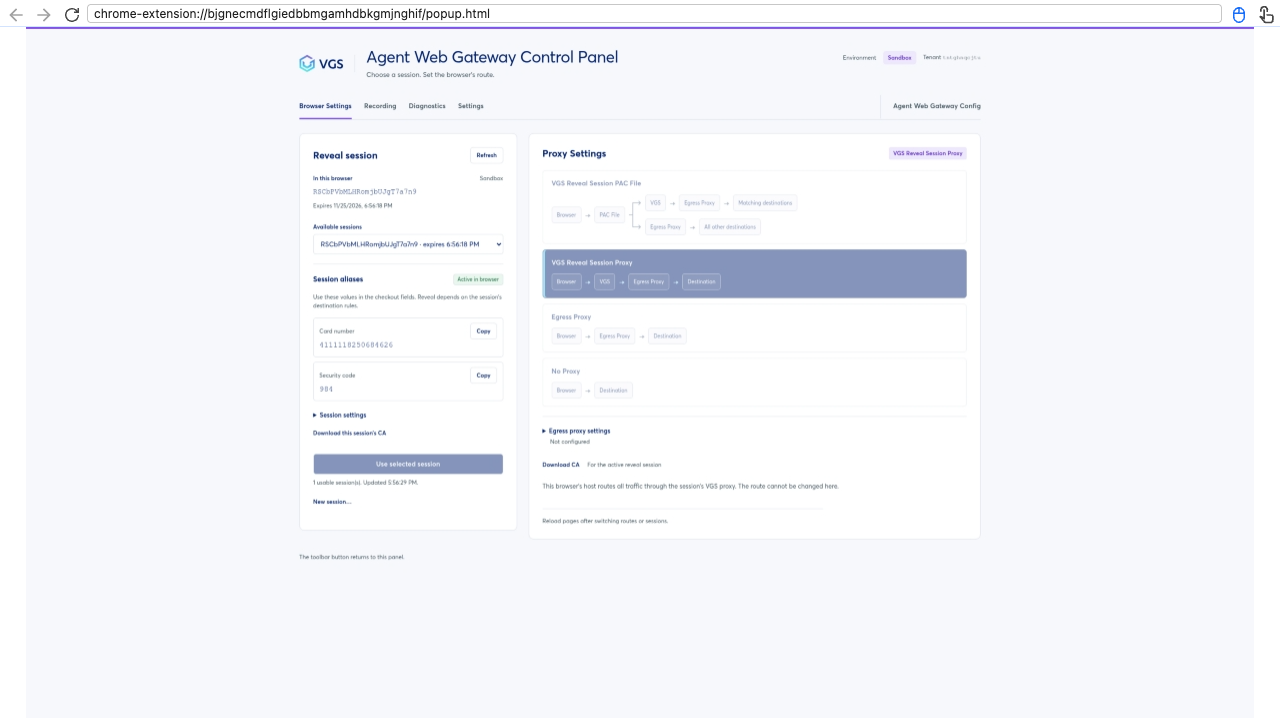
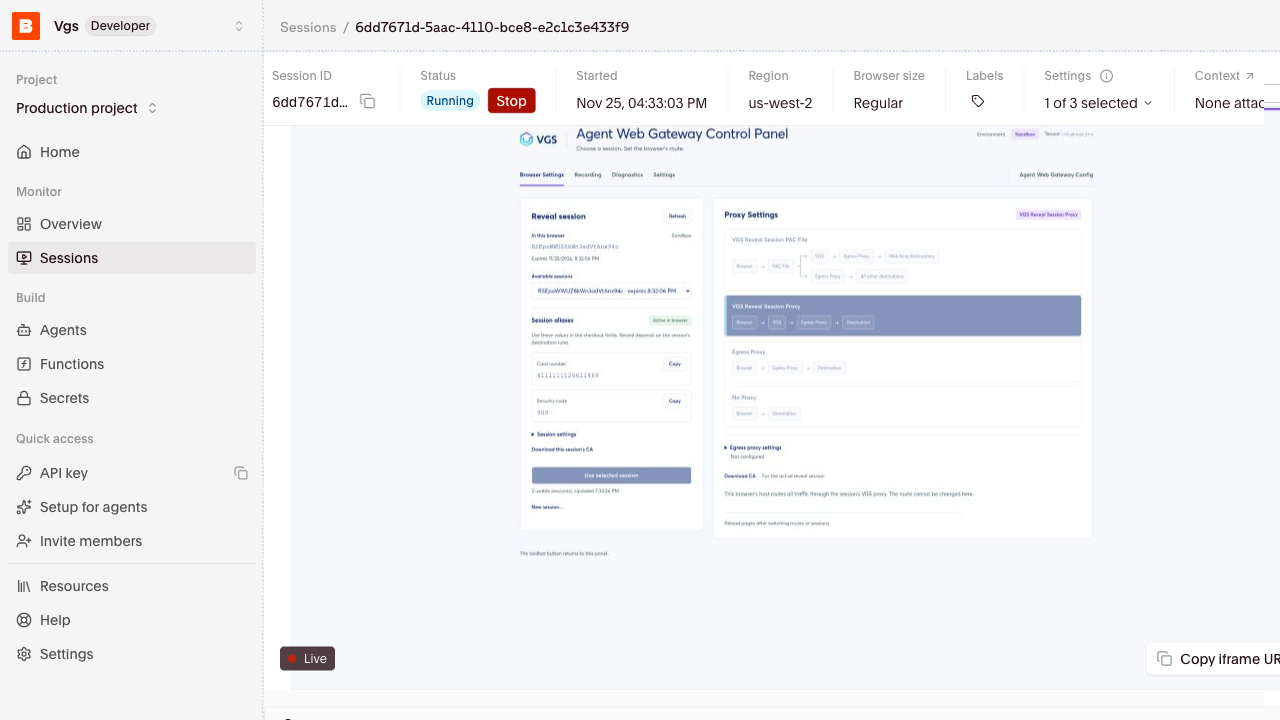
Start a session on a saved egress proxy with AWG_EGRESS, and show each cloud browser in the examples

diff --git a/tests/test_awg_cli.py b/tests/test_awg_cli.py
@@ -543,7 +543,8 @@ elif [[ "$args" = *tntFixture.sandbox.vault-api.verygoodvault.com/aliases* ]]; t
   printf '%s' '{"data":[{"aliases":[{"alias":"tok_fixture_pan","format":"UUID"}]},{"aliases":[{"alias":"tok_fixture_cvc","format":"UUID"}]}]}' > "$out"
   printf 201
 elif [[ "$args" = *sandbox.vgsapi.com/reveal-sessions* ]]; then
-  printf '%s' "$args" > "$FIXTURE_ROOT/session-request"
+  # The request body reaches curl as a private file, not on the command line.
+  for arg in $args; do case "$arg" in @*) cat "${arg#@}" > "$FIXTURE_ROOT/session-request" ;; esac; done
   printf '%s' '{"data":{"id":"RSFixture","attributes":{"expires_at":"2099-01-01T00:00:00Z"}}}' > "$out"
   printf 201
 else exit 94; fi''')
@@ -568,6 +569,46 @@ else exit 94; fi''')
         request = (self.root / 'session-request').read_text()
         self.assertIn('tok_fixture_pan', request)
         self.assertIn('tok_fixture_cvc', request)
+
+    def test_session_goes_out_through_a_saved_egress_proxy_when_asked(self):
+        (self.state / 'sandbox.env').write_text('VGS_TENANT=tntFixture\nVGS_CLIENT_ID=fixture\nVGS_CLIENT_SECRET=fixture\n')
+        proxy = {'type': 'custom', 'scheme': 'https', 'hostname': 'egress.example', 'port': 8443,
+                 'username': 'fixture-user', 'password': 'fixture-egress-secret'}
+        (self.state / '.proxy-controls-egress.json').write_text(json.dumps(
+            {'version': 1, 'profiles': [{'id': 'a' * 32, 'name': 'Fixture Proxy', 'proxy': proxy}]}))
+        self.script('curl', '''
+out=""
+args="$*"
+while [ "$#" -gt 0 ]; do
+  if [ "$1" = -o ]; then shift; out="$1"; fi
+  shift
+done
+if [[ "$args" = *openid-connect/token* ]]; then
+  printf '%s' '{"access_token":"fixture-token"}'
+elif [[ "$args" = *sandbox.vgsapi.com/cards* ]]; then
+  printf '%s' '{"data":{"id":"CRFixture","attributes":{"pan_alias":"tok_fixture_pan","cvc_alias":"tok_fixture_cvc","bin":"411111"}}}' > "$out"
+  printf 201
+elif [[ "$args" = *sandbox.vgsapi.com/reveal-sessions* ]]; then
+  printf '%s' "$args" > "$FIXTURE_ROOT/session-args"
+  printf '%s' '{"data":{"id":"RSFixture","attributes":{"expires_at":"2099-01-01T00:00:00Z","egress_proxy_settings":{"type":"custom","scheme":"https","hostname":"egress.example","port":8443,"username":"fixture-user","has_password":true}}}}' > "$out"
+  printf 201
+else exit 94; fi''')
+
+        def session(name):
+            return subprocess.run(['/bin/bash', str(KIT / 'awg'), 'session'], env={**self.env, 'AWG_EGRESS': name},
+                                  capture_output=True, text=True, timeout=20)
+        result = session('fixture proxy')
+        self.assertEqual(result.returncode, 0, result.stderr)
+        self.assertIn('"egress_proxy": "egress.example:8443"', result.stdout)
+        # The proxy's password stays off the command line and out of the output.
+        self.assertNotIn('fixture-egress-secret', (self.root / 'session-args').read_text() + result.stdout + result.stderr)
+        # The Control Panel reads the proxy's credentials for the session from the saved request.
+        saved = json.loads((self.state / 'sessions/RSFixture.request.json').read_text())
+        self.assertEqual(saved['data']['attributes']['egress_proxy_settings'], proxy)
+        self.assertEqual(list((self.state / 'sessions').glob('new.*')), [])
+        unknown = session('Other Proxy')
+        self.assertNotEqual(unknown.returncode, 0)
+        self.assertIn('Saved: Fixture Proxy', unknown.stderr)
 
     def test_scope_granted_as_a_role_but_absent_from_the_token_is_reported_as_such(self):
         (self.state / 'sandbox.env').write_text('VGS_TENANT=tntFixture\nVGS_CLIENT_ID=fixture\nVGS_CLIENT_SECRET=fixture\n')

diff --git a/docs/browserbase.md b/docs/browserbase.md
@@ -2,7 +2,7 @@
 
 `./awg start` opens CloakBrowser on your machine. `./awg browserbase` is an alternative for teams that run their agents on [Browserbase](https://www.browserbase.com): the browser runs in Browserbase's cloud and its traffic passes through your reveal session. No browser or Docker is needed locally; the kit uses `curl`, `jq` and `uv`.
 
-> Run against Browserbase's service: the browser started on the session's proxy with the session's certificate authority trusted, pages loaded through VGS with a `vgs-request-id`, and the Control Panel loaded, opened, and connected to the local helper through the relay, showing the tenant, the session and its stand-ins. Not yet exercised: creating a session or adding a card from the panel in a Browserbase browser, the payment example, and a submitted payment.
+> Run against Browserbase's service: the browser started on the session's proxy with the session's certificate authority trusted, pages loaded through VGS with a `vgs-request-id`, and the Control Panel loaded, opened, and connected to the local helper through the relay, showing the tenant, the session and its stand-ins. Not yet exercised: `AWG_EGRESS`, creating a session or adding a card from the panel in a Browserbase browser, the payment example, and a submitted payment.
 
 ## What you need
 
@@ -13,6 +13,7 @@
 |---|---|
 | `BROWSERBASE_API_KEY` | Required. The project's API key. Export it in your own terminal; the kit does not save it. |
 | `BROWSERBASE_PROJECT_ID` | Optional. Browserbase reads the project from the key; set this when the key covers more than one. |
+| `AWG_EGRESS` | Optional. The name of a proxy saved in the Control Panel. See [Egress proxy](#egress-proxy). |
 
 ## Run it
 
@@ -21,7 +22,9 @@ export BROWSERBASE_API_KEY=…
 ./awg browserbase https://<the site to test>/
 ```
 
-[![Agent Web Gateway Control Panel running in a Browserbase cloud browser](images/browserbase-browser.png)](images/browserbase-browser.png)
+[![Agent Web Gateway Control Panel running in a Browserbase cloud browser, seen in Browserbase's dashboard](images/browserbase-browser.png)](images/browserbase-browser.png)
+
+Browserbase's live view does not draw a browser's own dropdown lists, so in a hosted browser the panel opens each list inside the page.
 
 The command:
 
@@ -34,6 +37,18 @@ The command:
 7. Releases the browser, removes the panel and the certificate, and stops the helper and relay, when you press Enter. Without a terminal, it runs until the browser closes after 30 minutes.
 
 Type the session's stand-ins into the payment form, as in any other session. Read them with `./awg session` output or the Control Panel.
+
+## Egress proxy
+
+A Browserbase browser stays on the session it started with, so the [egress proxy](browser-proxying.md) has to be part of that session. Name a proxy you saved in the Control Panel when you start the browser:
+
+```sh
+AWG_EGRESS="My proxy" ./awg browserbase https://<the site to test>/
+```
+
+The kit creates the session with that proxy as its `egress_proxy_settings`, so traffic goes from the Browserbase browser to VGS, and from VGS through your proxy to the website. The proxy's address and credentials are sent to VGS only, not to Browserbase. A current session is reused only when it already goes out through the named proxy. `AWG_EGRESS` works the same way with `./awg session` and the other browser commands.
+
+To save a proxy, open **Egress proxy** in the panel's new-session form and choose **Add a new proxy…**. Saved proxies are kept on your machine in `~/.awg-dev-kit`. Choosing a different proxy in the panel creates a new session, which this browser cannot switch to; run the command again with `AWG_EGRESS` instead.
 
 ## What is different from `./awg start`
 
@@ -83,5 +98,5 @@ The session's proxy address, proxy username and password, and certificate author
 | `Browserbase did not start the browser` | Browserbase checks the proxy when it creates the browser. The line above has its reason; the session may have expired, or Browserbase cannot reach the session's proxy host and port. |
 | `Browserbase did not accept the Control Panel` | The browser still starts on the session, without the panel. |
 | `Control Panel: not loaded in this browser` | The panel was not found among the browser's extensions. Read the stand-ins from the session file. |
-| A dropdown in the Control Panel does not open | Browserbase's live view does not draw a browser's native dropdown lists. The choices are there: click the field, then press the down or up arrow key to move through them. |
+| `no saved proxy is named …` | `AWG_EGRESS` does not match a proxy saved in the Control Panel. The message lists the saved names. |
 | Pages fail with a certificate error | The browser is not trusting the session's certificate authority. Report it with the Browserbase session ID. |

diff --git a/examples/README.md b/examples/README.md
@@ -24,7 +24,17 @@ How to run the kit with each browser, the agents and payment flow to start from,
 
 The other three run the browser in the provider's cloud, so no local browser and no Docker are needed. Each creates or reuses an active test-card session, starts a cloud browser with the session as its proxy and the Control Panel open in a tab, and prints a live view link for watching and driving it.
 
+**Browser Use Cloud**
+
+[![Agent Web Gateway Control Panel running in a Browser Use cloud browser](../docs/images/browser-use-browser.png)](../docs/images/browser-use-browser.png)
+
+**Kernel**
+
 [![Agent Web Gateway Control Panel running in a Kernel cloud browser](../docs/images/kernel-browser.png)](../docs/images/kernel-browser.png)
+
+**Browserbase**
+
+[![Agent Web Gateway Control Panel running in a Browserbase cloud browser, seen in Browserbase's dashboard](../docs/images/browserbase-browser.png)](../docs/images/browserbase-browser.png)
 
 The Control Panel's helper stays on your machine, so your service-account credentials are not uploaded. The session's proxy credentials and the browser's traffic do go to the provider; the card does not. Each guide says what has been verified with that provider.
 
